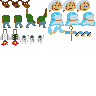
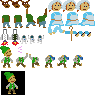
elf dancer

Changed region(s): [[0.0, 0.4688, 0.4375, 1.0], [0.4688, 0.5625, 0.7188, 0.7188], [0.75, 0.5625, 0.875, 0.7188]]

diff --git a/src/main/dancer.c b/src/main/dancer.c
@@ -246,6 +246,58 @@ static void astronaut_update(
   }
 }
 
+/* Elf.
+ */
+ 
+static void elf_init() {
+}
+
+static void elf_update(
+  struct image *dst,
+  uint32_t timep,uint32_t timec,
+  uint32_t beatp,
+  uint8_t quality,
+  uint8_t notec
+) {
+  int frame;
+  if ((timec<=1)||(quality<1)) {
+    frame=0;
+  } else {
+    frame=(beatp&1)<<1;
+    if (timep>=timec>>1) frame++;
+  }
+  
+  // Toot instead.
+  if (quality>=3) {
+    image_blit_colorkey(dst,3,1,&dancer,0,46,12,11);
+    switch (frame) {
+      case 0:
+      case 2: image_blit_colorkey(dst,4,10,&dancer,42,55,14,13); break;
+      case 1: image_blit_colorkey(dst,4,10,&dancer,56,55,14,13); break;
+      case 3: image_blit_colorkey(dst,4,10,&dancer,70,55,14,13); break;
+    }
+    if (notec) {
+      image_blit_colorkey(dst,18,9,&dancer,18,46,4,7);
+    }
+    return;
+  }
+  
+  // Head.
+  if (frame>=2) {
+    image_blit_colorkey_flop(dst,7,1,&dancer,0,46,12,11);
+  } else {
+    image_blit_colorkey(dst,3,1,&dancer,0,46,12,11);
+  }
+  
+  // Body.
+  switch (frame) {
+    case 0:
+    case 2: image_blit_colorkey(dst,4,12,&dancer,0,57,14,11); break;
+    case 1: image_blit_colorkey(dst,4,8,&dancer,14,53,14,15); break;
+    case 3: image_blit_colorkey(dst,4,8,&dancer,28,53,14,15); break;
+  }
+}
+
 /* Dispatch.
  */
  
@@ -256,6 +308,7 @@ void dancer_init(uint8_t _dancerid) {
     case DANCER_ID_RACCOON: raccoon_init(); break;
     case DANCER_ID_ROBOT: robot_init(); break;
     case DANCER_ID_ASTRONAUT: astronaut_init(); break;
+    case DANCER_ID_ELF: elf_init(); break;
   }
 }
  
@@ -263,7 +316,8 @@ void dancer_update(
   struct image *dst,
   uint32_t timep,uint32_t timec,
   uint32_t beatp,
-  uint8_t quality
+  uint8_t quality,
+  uint8_t notec
 ) {
   if (!timec) timec=1;
   if (timep>=timec) timep=0;
@@ -272,5 +326,6 @@ void dancer_update(
     case DANCER_ID_RACCOON: raccoon_update(dst,timep,timec,beatp,quality); break;
     case DANCER_ID_ROBOT: robot_update(dst,timep,timec,beatp,quality); break;
     case DANCER_ID_ASTRONAUT: astronaut_update(dst,timep,timec,beatp,quality); break;
+    case DANCER_ID_ELF: elf_update(dst,timep,timec,beatp,quality,notec); break;
   }
 }

diff --git a/src/main/image.c b/src/main/image.c
@@ -53,6 +53,34 @@ void image_blit_colorkey(
   }
 }
 
+/* Blit with colorkey, reversing the X axis.
+ */
+ 
+void image_blit_colorkey_flop(
+  struct image *dst,int16_t dstx,int16_t dsty,
+  const struct image *src,int16_t srcx,int16_t srcy,
+  int16_t w,int16_t h
+) {
+  if (!dst||!src) return;
+  if (dstx<0) { w+=dstx; dstx=0; }
+  if (dsty<0) { srcy-=dsty; h+=dsty; dsty=0; }
+  if (dstx>dst->w-w) { srcx+=dstx+w-dst->w; w=dst->w-dstx; }
+  if (dsty>dst->h-h) h=dst->h-dsty;
+  if ((w<1)||(h<1)) return;
+  
+  uint16_t *dstrow=dst->v+dsty*dst->stride+dstx;
+  const uint16_t *srcrow=src->v+srcy*src->stride+srcx+w-1;
+  int yi=h;
+  for (;yi-->0;dstrow+=dst->stride,srcrow+=src->stride) {
+    uint16_t *dstp=dstrow;
+    const uint16_t *srcp=srcrow;
+    int xi=w;
+    for (;xi-->0;dstp++,srcp--) {
+      if (*srcp) *dstp=*srcp;
+    }
+  }
+}
+
 /* Blit from 1-bit glyph.
  */
  

diff --git a/src/main/dancer.h b/src/main/dancer.h
@@ -14,6 +14,7 @@ struct image;
 #define DANCER_ID_RACCOON   2
 #define DANCER_ID_ROBOT     3
 #define DANCER_ID_ASTRONAUT 4
+#define DANCER_ID_ELF       5
 
 void dancer_init(uint8_t dancerid);
 
@@ -21,12 +22,14 @@ void dancer_init(uint8_t dancerid);
  * (timep) should be in (0..timec-1), our position within the beat.
  * (beatp) is how many beats elapsed.
  * (quality) comes mostly from the running combo: 0..4
+ * (notec) how many user-generate notes in flight right now.
  */
 void dancer_update(
   struct image *dst,
   uint32_t timep,uint32_t timec,
   uint32_t beatp,
-  uint8_t quality
+  uint8_t quality,
+  uint8_t notec
 );
 
 #endif

diff --git a/src/main/game.c b/src/main/game.c
@@ -587,7 +587,7 @@ void game_render(struct image *fb) {
     .v=fb->v+12*fb->stride+69,
   };
   uint32_t subtiming=synth->songtime%song_frames_per_beat;
-  dancer_update(&dancerdst,subtiming,synth->song?song_frames_per_beat:1,beatc,calculate_score_quality());
+  dancer_update(&dancerdst,subtiming,synth->song?song_frames_per_beat:1,beatc,calculate_score_quality(),input?1:0);
   
   // Combo quality indicator.
   image_blit_opaque(fb,69,37,&bits,10,40,24,24);

diff --git a/src/main/platform.h b/src/main/platform.h
@@ -53,6 +53,11 @@ void image_blit_colorkey(
   const struct image *src,int16_t srcx,int16_t srcy,
   int16_t w,int16_t h
 );
+void image_blit_colorkey_flop(
+  struct image *dst,int16_t dstx,int16_t dsty,
+  const struct image *src,int16_t srcx,int16_t srcy,
+  int16_t w,int16_t h
+);
 
 /* See etc/doc/font.txt for details about the format.
  * Blit one glyph, top-left corner at (dstx,dsty).

diff --git a/src/main/data.c b/src/main/data.c
@@ -26,7 +26,7 @@ const struct songinfo songinfov[]={
   {
     .song=elfonahill,
     .name="Elf on a Hill",
-    .dancerid=DANCER_ID_RACCOON,//TODO
+    .dancerid=DANCER_ID_ELF,
     .songid=6,
   },
   {
